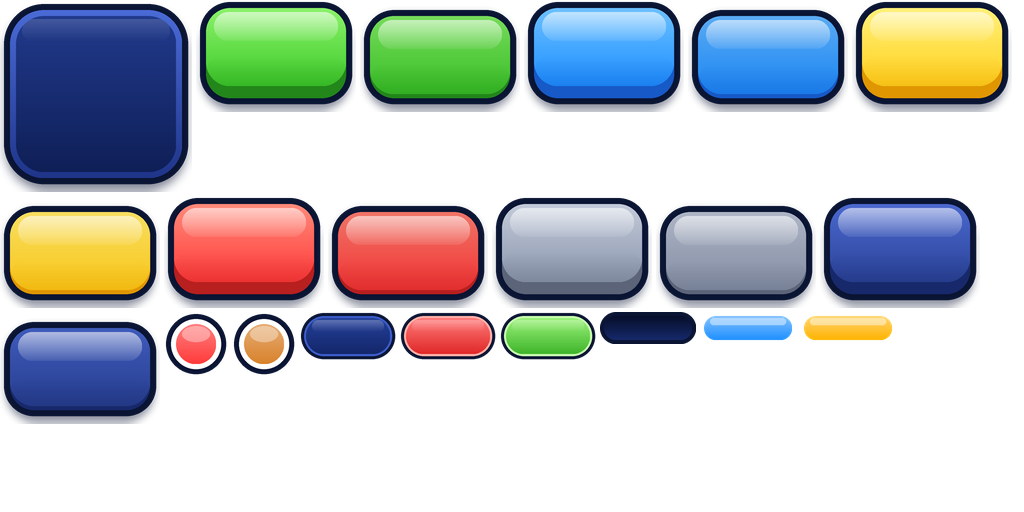
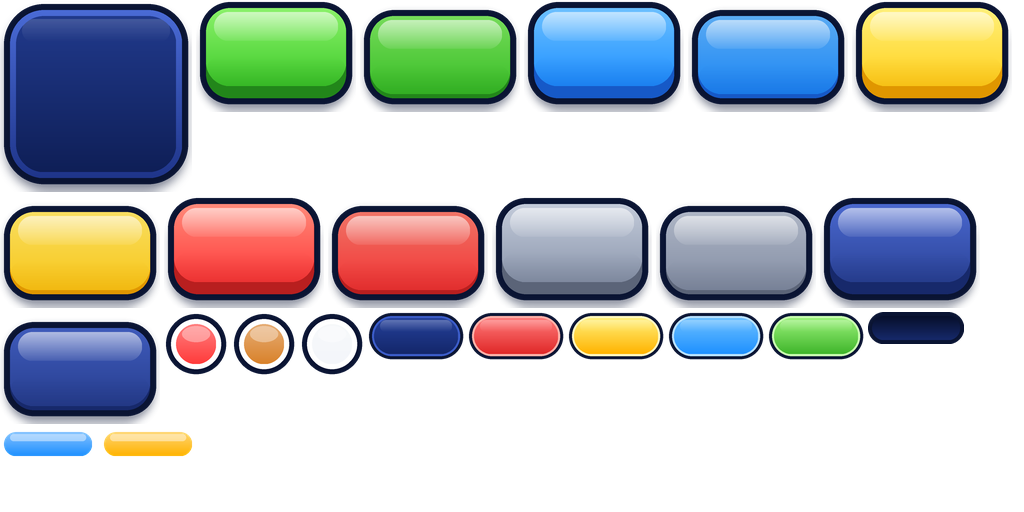
vault backup: 2026-10-28 16:35:40

Changed region(s): [[0.2812, 0.5938, 0.9688, 0.75], [0.0, 0.8438, 0.1875, 0.9062]]

diff --git a/Games/SpeedArc/tools/make_ui_kit.py b/Games/SpeedArc/tools/make_ui_kit.py
@@ -333,6 +333,8 @@ def build():
         spr["tile_" + c] = save("tile_" + c, tile(h), [40, 40, 120, 160], 0.33, "store / locker / quest / coach tile")
     spr["pill_navy"] = save("pill_navy", pill("#24409A", "#14276A", "#3B5CC8"), [24, 20, 72, 28], "auto", "counters, HUD plates (SliceScale = height / 48)")
     spr["pill_red"] = save("pill_red", pill("#FF7A7A", "#E02828", "#FFB0A8"), [24, 20, 72, 28], "auto", "LIVE, warnings")
+    spr["pill_gold"] = save("pill_gold", pill("#FFF07A", "#FFB300", "#FFF7C0"), [24, 20, 72, 28], "auto", "boost badge, reward tags")
+    spr["pill_blue"] = save("pill_blue", pill("#6CC0FF", "#1E90FF", "#B8E0FF"), [24, 20, 72, 28], "auto", "info tags")
     spr["pill_lime"] = save("pill_lime", pill("#9BF27A", "#3FB52B", "#C8FFB0"), [24, 20, 72, 28], "auto", "status: equipped, new")
     spr["bar_track"] = save("bar_track", bar(), [16, 15, 80, 17], "auto", "progress track")
     spr["bar_blue"] = save("bar_blue", bar("#1E90FF"), [16, 15, 80, 17], "auto", "progress fill")
